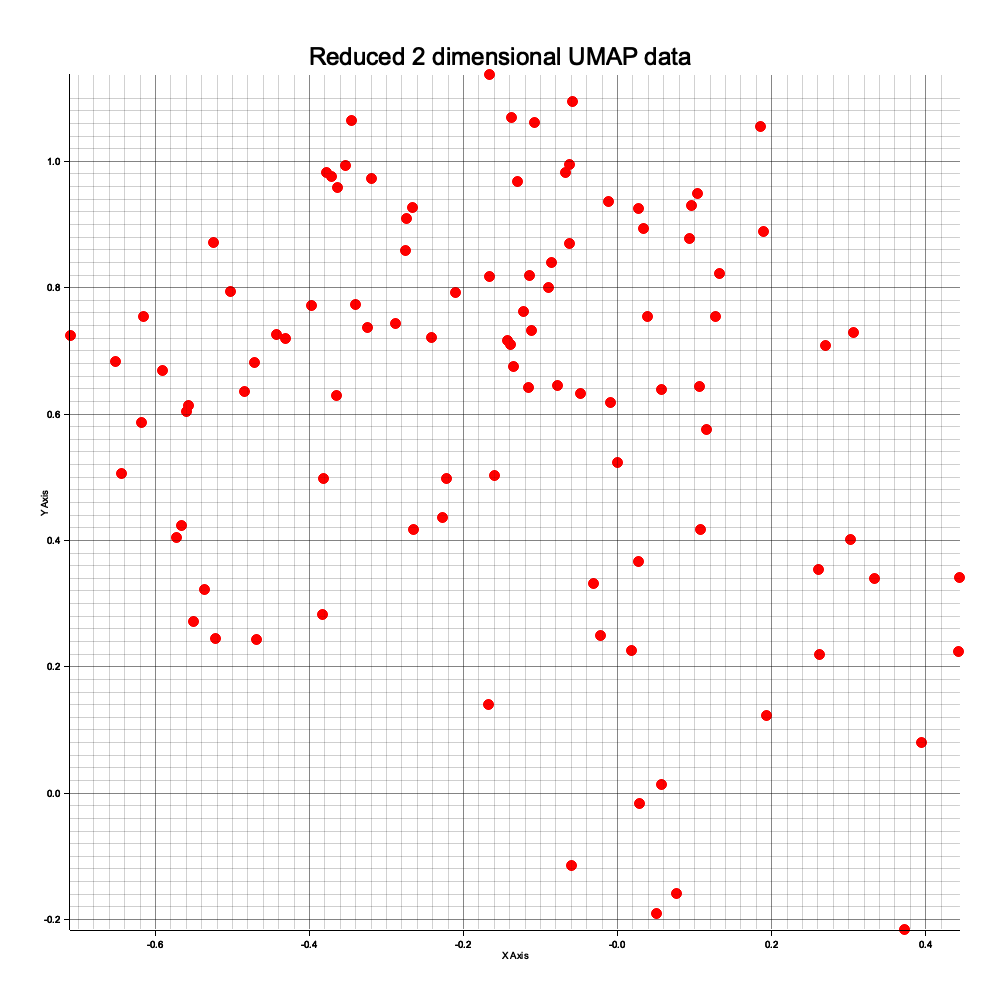
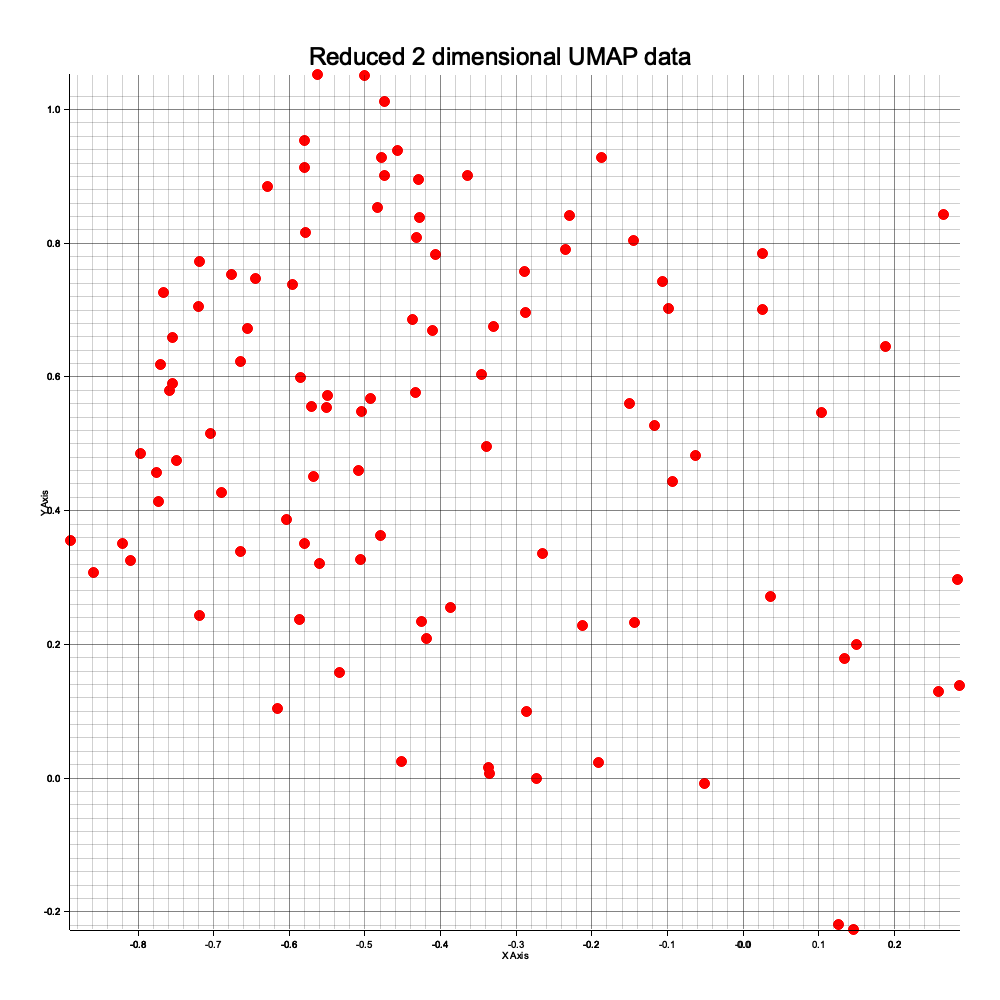
fixed types conversion from f64 to f32, since Tensor only exports to f32 for now

Changed region(s): [[0.031, 0.062, 0.961, 0.961]]

diff --git a/src/lib.rs b/src/lib.rs
@@ -3,10 +3,7 @@ use model::{UMAPModel, UMAPModelConfigBuilder};
 use train::*;
 use utils::*;
 
-use burn::{
-    backend::{Autodiff, Wgpu},
-    tensor::Device,
-};
+use burn::tensor::Device;
 
 pub mod chart;
 pub mod distance;
@@ -15,22 +12,20 @@ pub mod model;
 pub mod train;
 pub mod utils;
 
-type MyBackend = Wgpu<f32, i32>;
-type MyAutodiffBackend = Autodiff<MyBackend>;
-
 pub struct UMAP<B: AutodiffBackend> {
     model: UMAPModel<B::InnerBackend>,
     device: Device<B>,
 }
 
 impl<B: AutodiffBackend> UMAP<B> {
-    pub fn fit<F>(data: Vec<Vec<F>>) -> Self
+    pub fn fit<F>(data: Vec<Vec<F>>, device: Device<B>) -> Self
     where
         F: From<f32> + From<f64> + Clone,
         f64: From<F>,
-        B: AutodiffBackend,
     {
-        let device = burn::backend::wgpu::WgpuDevice::default();
+        // type MyBackend = Wgpu<f32, i32>;
+        // type MyAutodiffBackend = Autodiff<MyBackend>;
+        // let device = burn::backend::wgpu::WgpuDevice::default();
 
         let batch_size = 1;
         let num_samples = data.len();
@@ -40,7 +35,7 @@ impl<B: AutodiffBackend> UMAP<B> {
         let learning_rate = 0.001;
         let beta1 = 0.9;
         let beta2 = 0.999;
-        let epochs = 400;
+        let epochs = 100;
         let seed = 9999;
 
         B::seed(seed);
@@ -54,9 +49,9 @@ impl<B: AutodiffBackend> UMAP<B> {
             .build()
             .unwrap();
 
-        let model: UMAPModel<_> = UMAPModel::new(&model_config, &device);
+        let model: UMAPModel<B> = UMAPModel::new(&model_config, &device);
 
-        let config = TrainingConfig::<_>::builder()
+        let config = TrainingConfig::builder()
             .epochs(epochs)
             .batch_size(batch_size)
             .learning_rate(learning_rate)
@@ -67,7 +62,7 @@ impl<B: AutodiffBackend> UMAP<B> {
             .expect("Failed to build TrainingConfig");
 
         // Start training with the configured parameters
-        let model = train::<MyAutodiffBackend>(
+        let model = train(
             model,
             num_samples,
             num_features,
@@ -83,11 +78,7 @@ impl<B: AutodiffBackend> UMAP<B> {
         umap
     }
 
-    pub fn transform<F>(&self, data: Vec<Vec<F>>) -> Vec<Vec<F>>
-    where
-        F: From<f64> + From<f32>,
-        f64: From<F>,
-    {
+    pub fn transform(&self, data: Vec<Vec<f64>>) -> Vec<Vec<f64>> {
         let num_samples = data.len();
         let num_features = data[0].len();
 
@@ -99,4 +90,16 @@ impl<B: AutodiffBackend> UMAP<B> {
 
         result
     }
+}
+
+use burn::backend::wgpu::{Wgpu, WgpuDevice};
+use burn::backend::Autodiff;
+
+pub fn umap<F>(data: Vec<Vec<F>>) -> UMAP<Autodiff<Wgpu>>
+where
+    F: From<f32> + From<f64> + Clone,
+    f64: From<F>,
+{
+    let model = UMAP::<Autodiff<Wgpu>>::fit(data, WgpuDevice::default());
+    model
 }

diff --git a/src/chart.rs b/src/chart.rs
@@ -2,6 +2,9 @@ use crate::utils::*;
 use burn::prelude::*;
 use plotters::prelude::*;
 
+const CAPTION: &str = "Reduced 2 dimensional UMAP data";
+const PATH: &str = "plot.png";
+
 #[derive(Debug, Clone)]
 pub struct ChartConfig {
     pub caption: String,
@@ -14,8 +17,8 @@ impl ChartConfig {
     // Builder pattern for configuring the chart
     pub fn builder() -> ChartConfigBuilder {
         ChartConfigBuilder {
-            caption: Some("Reduced 2 dimensional UMAP data".to_string()),
-            path: Some("plot.png".to_string()),
+            caption: Some(CAPTION.to_string()),
+            path: Some(PATH.to_string()),
             width: Some(1000),
             height: Some(1000),
         }
@@ -25,8 +28,8 @@ impl ChartConfig {
 impl Default for ChartConfig {
     fn default() -> Self {
         ChartConfig {
-            caption: "Reduced 2 dimensional UMAP data".to_string(),
-            path: "plot.png".to_string(),
+            caption: CAPTION.to_string(),
+            path: PATH.to_string(),
             width: 1000,
             height: 1000,
         }
@@ -68,21 +71,23 @@ impl ChartConfigBuilder {
     // Build the final config
     pub fn build(self) -> ChartConfig {
         ChartConfig {
-            caption: self
-                .caption
-                .unwrap_or_else(|| "Reduced 2 dimensional UMAP data".to_string()),
-            path: self.path.unwrap_or_else(|| "plot.png".to_string()),
+            caption: self.caption.unwrap_or_else(|| CAPTION.to_string()),
+            path: self.path.unwrap_or_else(|| PATH.to_string()),
             width: self.width.unwrap_or(1000),
             height: self.height.unwrap_or(1000),
         }
     }
 }
 
-pub fn chart<B: Backend>(data: Tensor<B, 2>, config: Option<ChartConfig>) {
-    let config = config.unwrap_or(ChartConfig::default());
+type Float = f64;
 
-    type Float = f64;
+pub fn chart_tensor<B: Backend>(data: Tensor<B, 2>, config: Option<ChartConfig>) {
     let data: Vec<Vec<Float>> = convert_tensor_to_vector(data);
+    chart_vector(data, config);
+}
+
+pub fn chart_vector(data: Vec<Vec<Float>>, config: Option<ChartConfig>) {
+    let config = config.unwrap_or(ChartConfig::default());
 
     // Create a drawing area with a size of 800x600 pixels
     let root = BitMapBackend::new(&config.path, (config.width, config.height)).into_drawing_area();

diff --git a/src/utils.rs b/src/utils.rs
@@ -57,32 +57,25 @@ pub fn print_tensor<B: Backend, const D: usize>(data: &Tensor<B, D>) {
     table.printstd();
 }
 
-pub fn print_tensor_with_title<B: Backend, const D: usize>(
-    title: Option<&str>,
-    data: &Tensor<B, D>,
-) {
-    if let Some(title) = title {
-        println!("{title}")
-    }
-
+pub fn print_tensor_with_title<B: Backend, const D: usize>(title: &str, data: &Tensor<B, D>) {
+    println!("{title}");
     print_tensor(data);
 }
 
-pub fn convert_tensor_to_vector<B: Backend, F>(data: Tensor<B, 2>) -> Vec<Vec<F>>
-where
-    F: From<f32> + From<f64>, // Ensure that F can be constructed from f32
-                              // f32: From<F>,
-                              // f64: From<F>,
-{
+pub fn convert_tensor_to_vector<B: Backend>(data: Tensor<B, 2>) -> Vec<Vec<f64>> {
+    // print_tensor_with_title(Some("convert_tensor_to_vector"), &data);
     let n_components = data.dims()[1]; // usually 2 dimensional
-    let data = data.to_data().to_vec::<f64>().unwrap();
-    let data: Vec<Vec<F>> = data
+
+    // Burn Tensor only has f32 precision inside the tensors, when you export to to_data
+    let data = data.to_data().to_vec::<f32>().unwrap();
+
+    let data: Vec<Vec<f64>> = data
         .chunks(n_components)
         .map(|chunk| {
             chunk
                 .to_vec()
                 .into_iter()
-                .map(|value| F::from(value))
+                .map(|value| f64::from(value))
                 .collect()
         })
         .collect();

diff --git a/examples/simple.rs b/examples/simple.rs
@@ -1,4 +1,4 @@
-use fast_umap::{utils::*, UMAP};
+use fast_umap::{chart::chart_vector, umap, utils::*};
 
 fn main() {
     let num_samples = 100;
@@ -9,9 +9,9 @@ fn main() {
         .map(|chunk| chunk.to_vec())
         .collect();
 
-    let umap = UMAP::fit(data.clone());
+    let umap = umap(data.clone());
     let reduced_dimensions = umap.transform(data);
 
     // print_tensor_with_title(Some("local"), &local);
-    chart(reduced_dimensions, None);
+    chart_vector(reduced_dimensions, None);
 }

diff --git a/examples/train.rs b/examples/train.rs
@@ -7,7 +7,7 @@ use burn::{
     tensor::{Device, Tensor},
 };
 use fast_umap::{
-    chart::chart,
+    chart,
     model::{UMAPModel, UMAPModelConfigBuilder},
     train::{train, TrainingConfig},
     utils::*,
@@ -69,5 +69,5 @@ fn main() {
 
     // print_tensor_with_title(Some("global"), &global);
     // print_tensor_with_title(Some("local"), &local);
-    chart(local, None);
+    chart::chart_tensor(local, None);
 }
